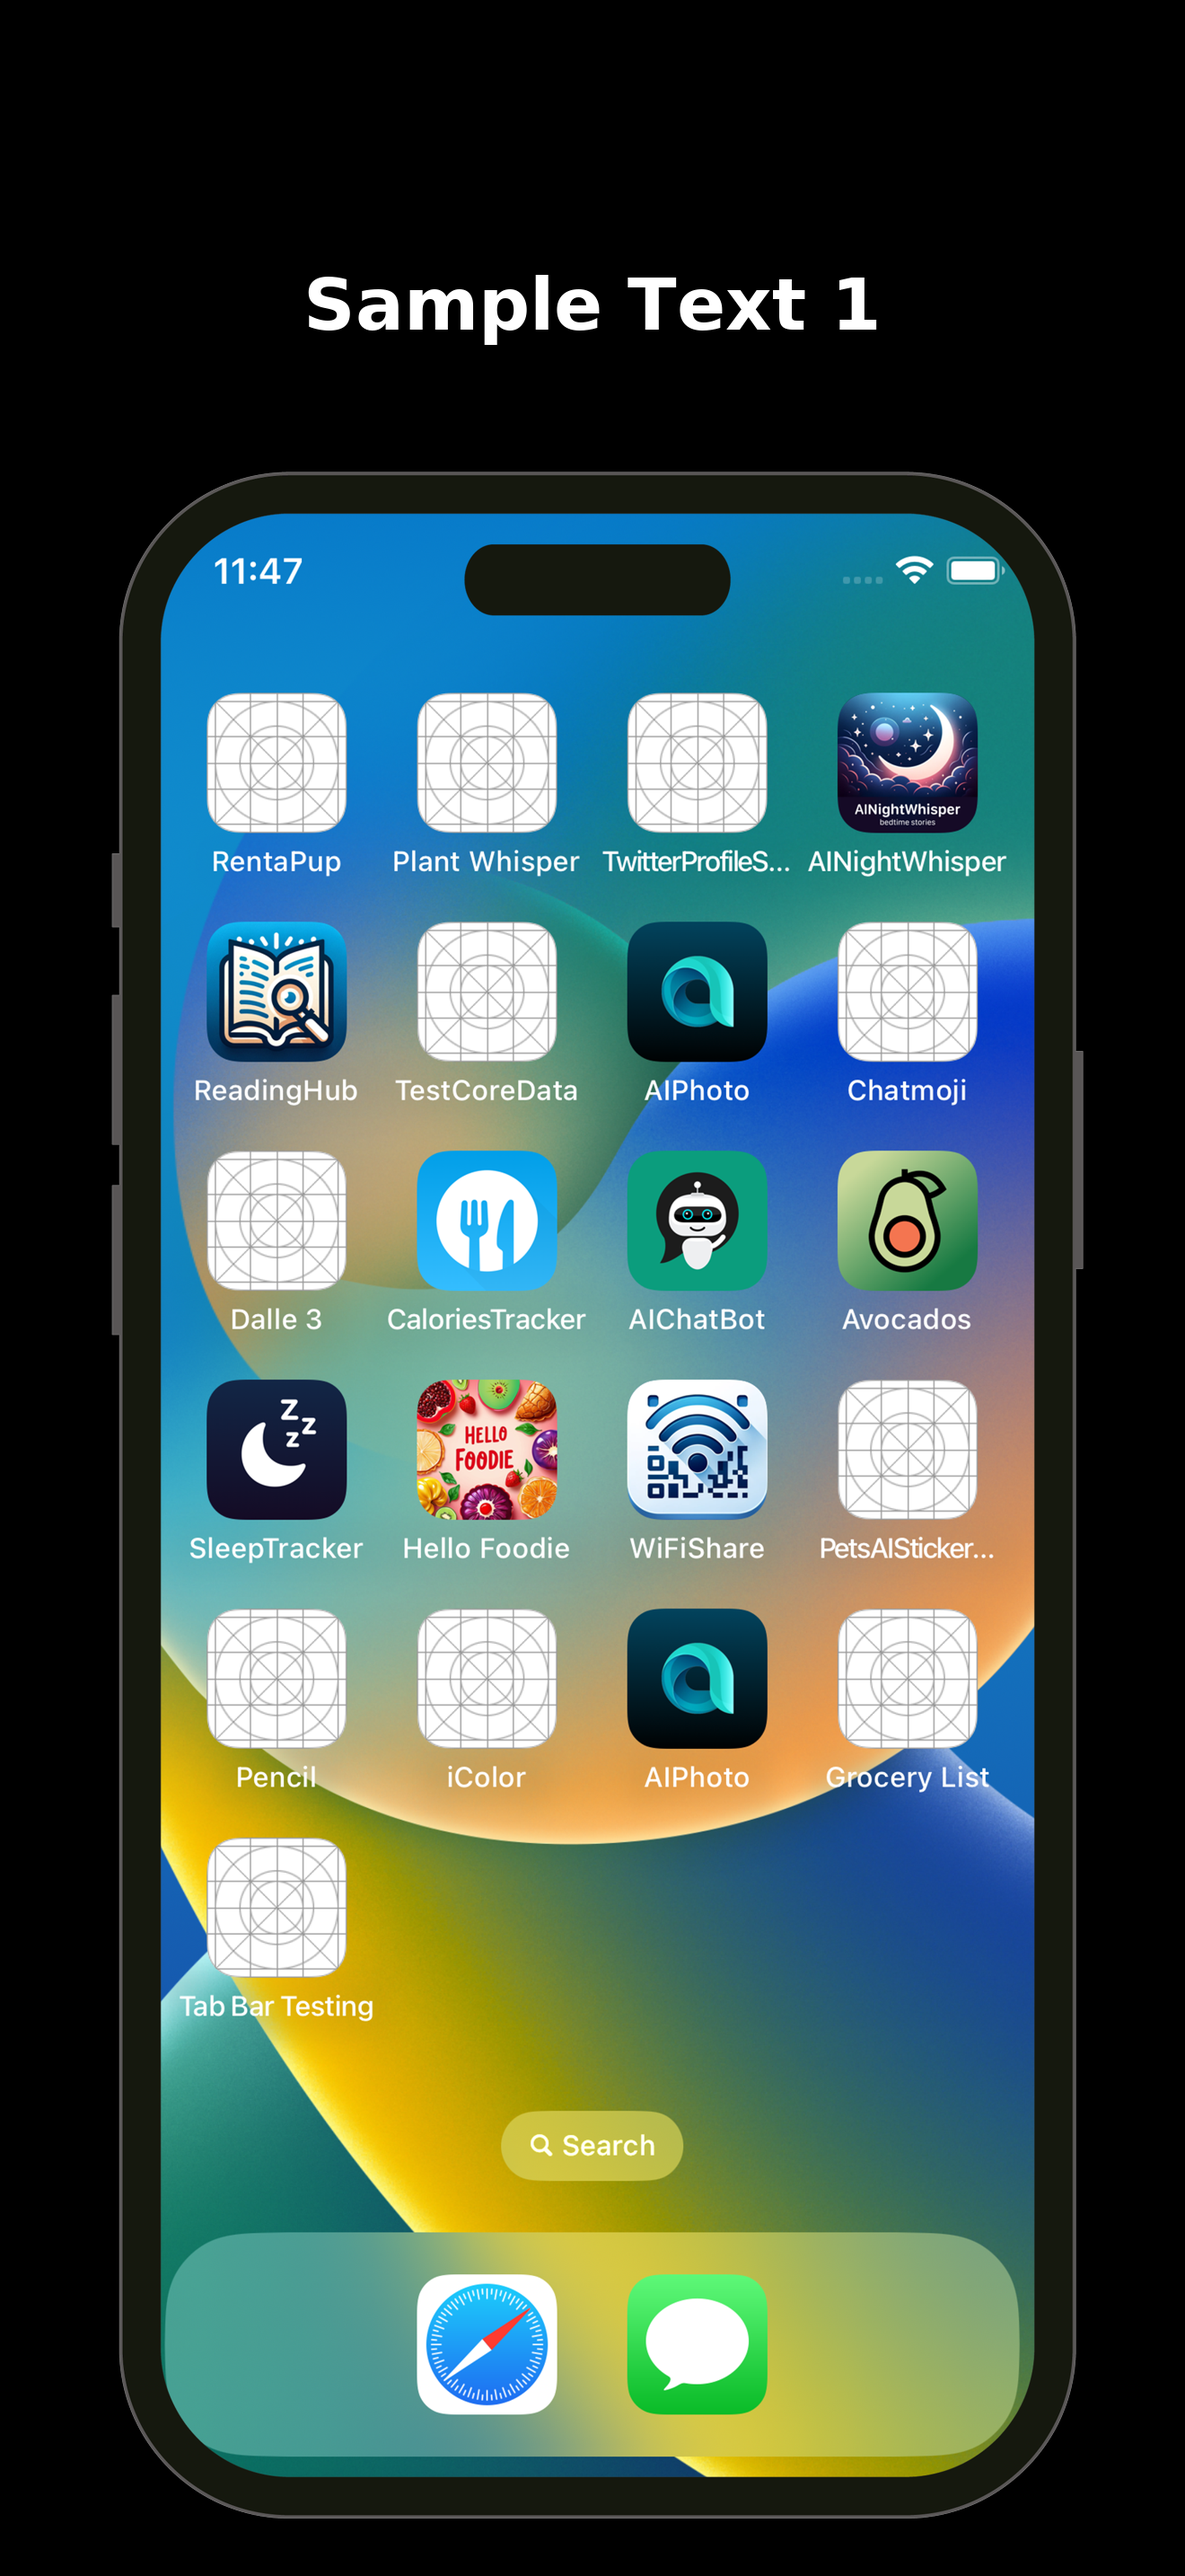
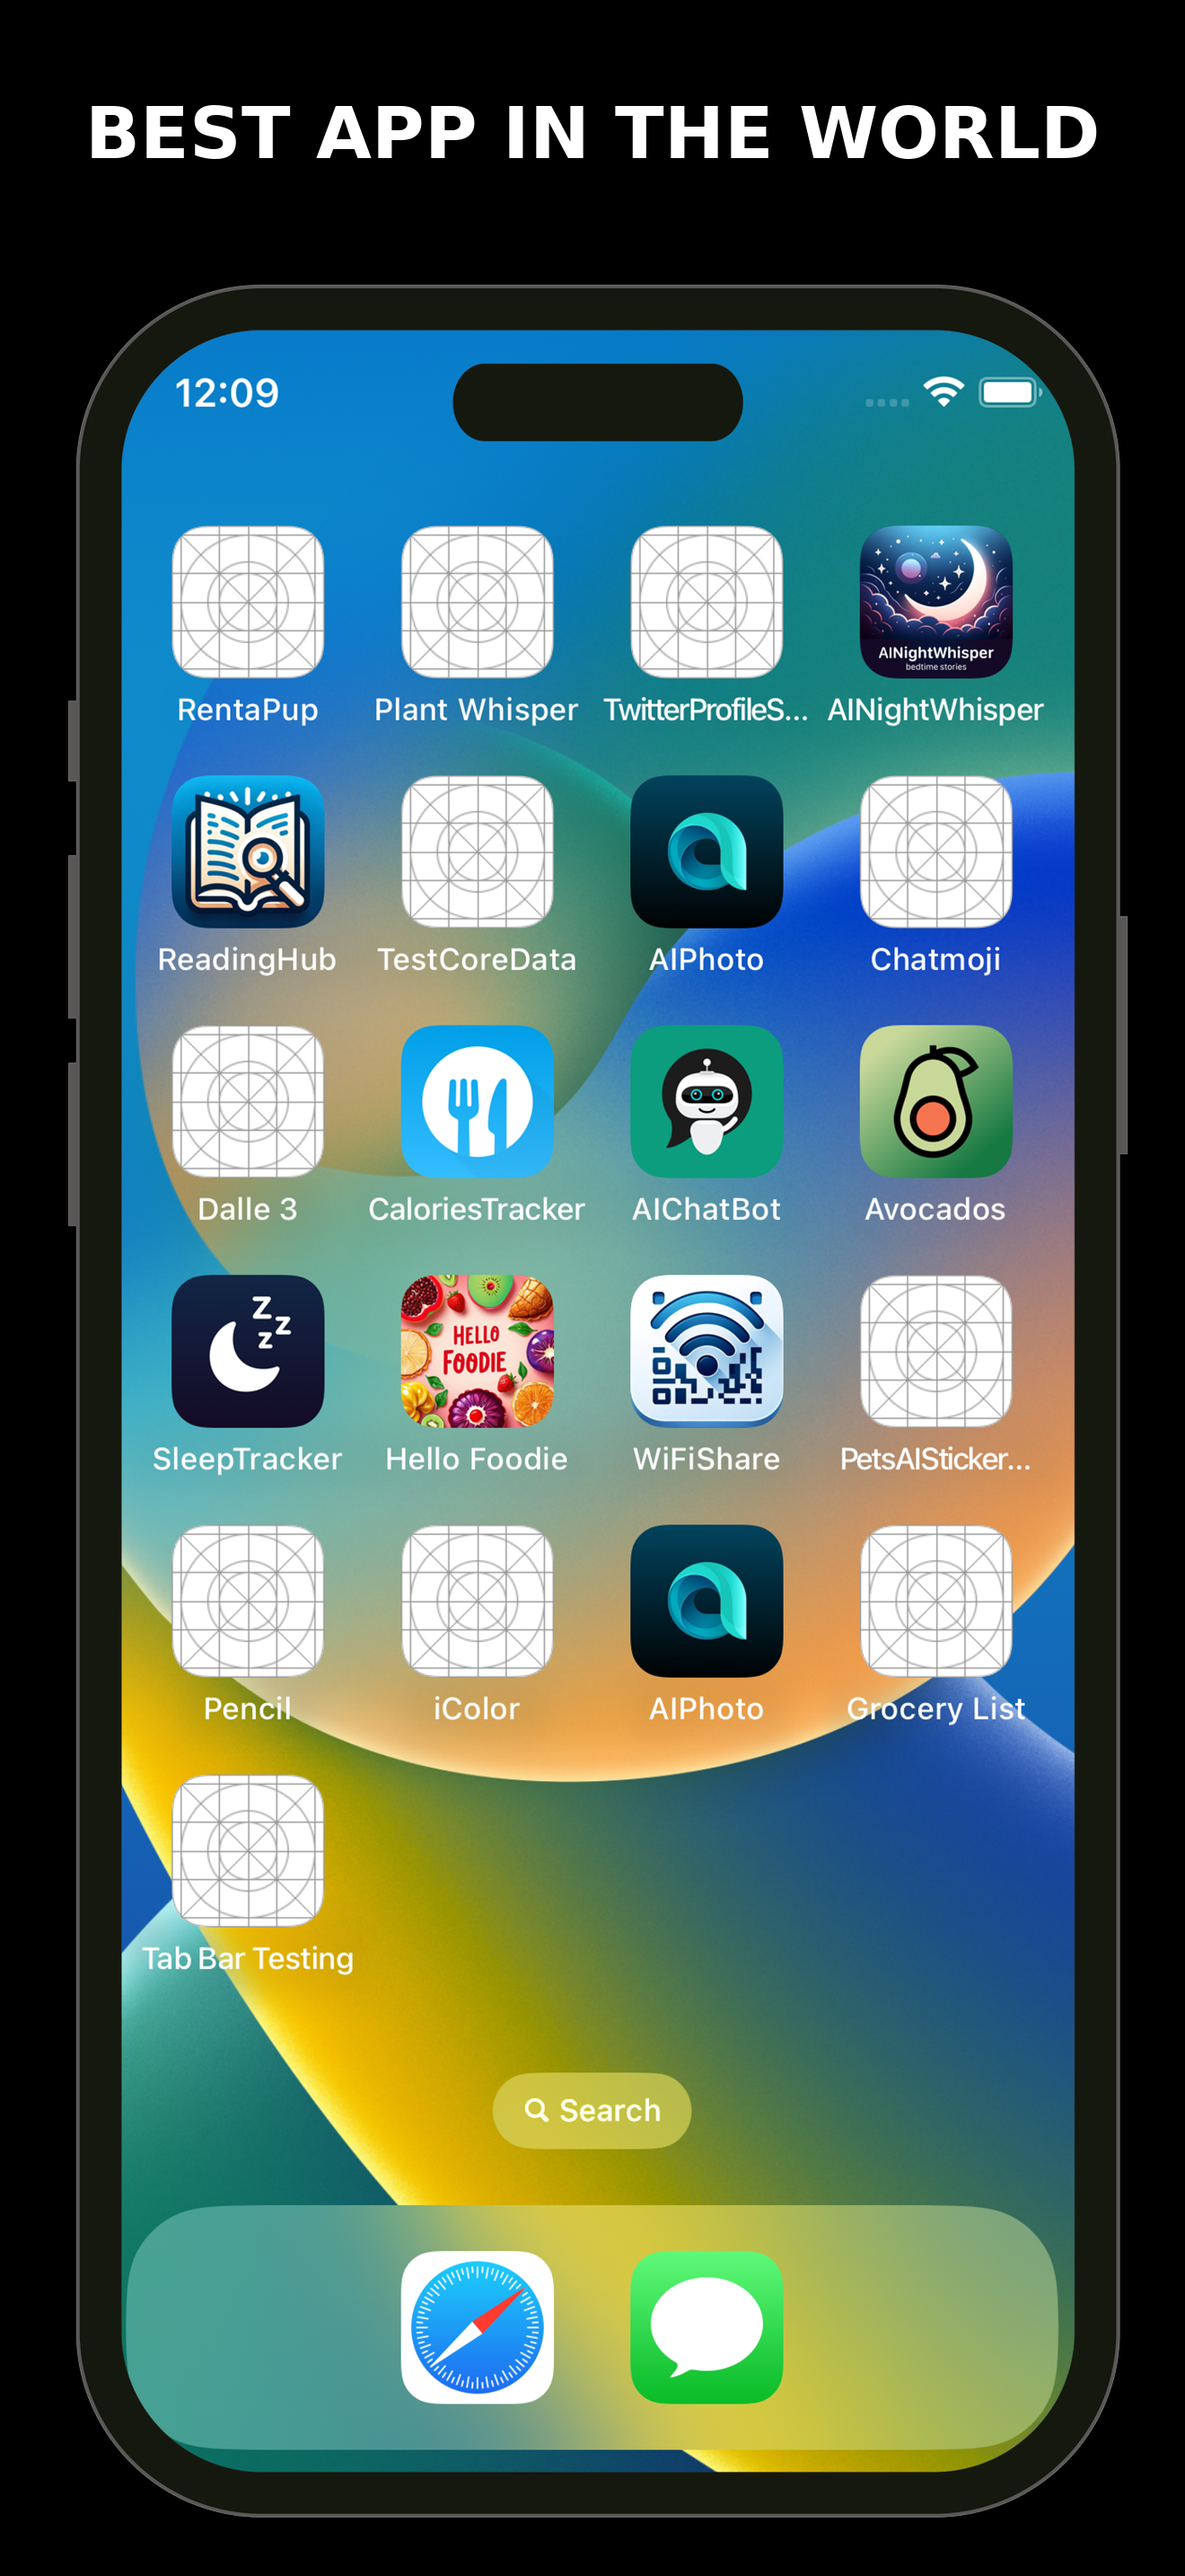
changes

diff --git a/app/main.py b/app/main.py
@@ -17,14 +17,13 @@ def place_on_background(downscaled_image: Image.Image, background: Image.Image, 
     # Draw the text above the framed image
     draw = ImageDraw.Draw(background)
     font_size = 80  # Ensure this is large enough to see any effect
-    font_path = "assets/fonts/DejaVuSans-Bold.ttf"  # Adjust path if necessary
+    font_path = "assets/fonts/DejaVuSans-Bold.ttf"
     
     try:
-        # Load the custom font and verify its size
+        # Load the custom font
         font = ImageFont.truetype(font_path, font_size)
         st.write(f"Loaded font from: {font_path} with size: {font_size}")
     except IOError:
-        # Fall back to default font (non-resizable, for troubleshooting)
         st.write("Failed to load custom font, falling back to default.")
         font = ImageFont.load_default()
     
@@ -39,9 +38,7 @@ def place_on_background(downscaled_image: Image.Image, background: Image.Image, 
     
     return background
 
-
-
-st.title("Enhanced Screenshot Placement with Larger Text and More Spacing")
+st.title("Enhanced Screenshot Placement with Larger Image Scale")
 
 # Load the iPhone frame from the config path
 iphone_frame = Image.open(config.IPHONE_FRAME_PATH)
@@ -51,14 +48,14 @@ bg_color = st.color_picker("Choose a background color", "#000000")
 background_color = tuple(int(bg_color[i:i+2], 16) for i in (1, 3, 5)) + (255,)
 padding = st.slider("Select bottom padding", min_value=0, max_value=500, value=50)
 corner_radius = st.slider("Select corner radius for image", min_value=0, max_value=300, value=150)
-image_scale = st.slider("Adjust image scale", min_value=1000, max_value=1300, value=1100)
+# Increase the max value of the image scale slider to make the framed image larger
+image_scale = st.slider("Adjust image scale", min_value=1000, max_value=1400, value=1200)
 
 # Upload multiple screenshot images
 uploaded_images = st.file_uploader("Upload Screenshots", type=["jpg", "jpeg", "png"], accept_multiple_files=True)
 
 # Process each uploaded screenshot
 if uploaded_images:
-    # Collect text inputs for each image
     text_inputs = []
     for idx in range(len(uploaded_images)):
         text = st.text_input(f"Enter text for Image {idx + 1}", f"Sample Text {idx + 1}")
@@ -70,7 +67,7 @@ if uploaded_images:
         # Overlay the screenshot with the iPhone frame, using the chosen corner radius
         framed_image = overlay_screenshot_with_frame(input_image, iphone_frame, radius=corner_radius)
         
-        # Adjust the size of the image to be larger before placing on the background
+        # Adjust the size of the framed image based on the updated scale slider
         aspect_ratio = framed_image.height / framed_image.width
         downscaled_size = (image_scale, int(image_scale * aspect_ratio))
         downscaled_image = framed_image.resize(downscaled_size)
